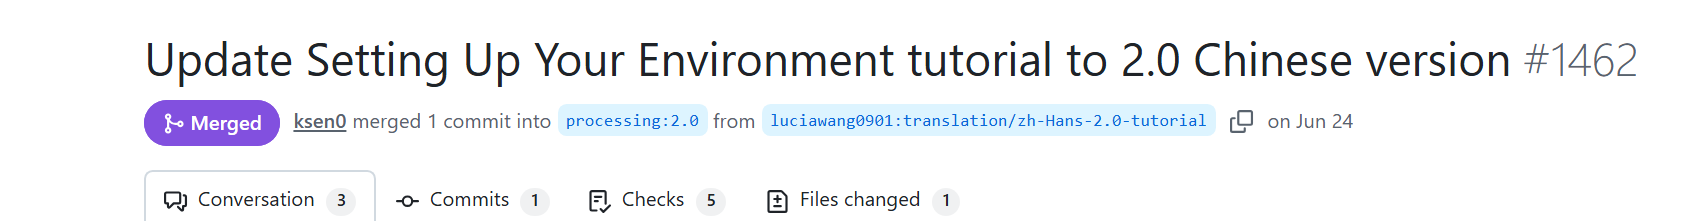
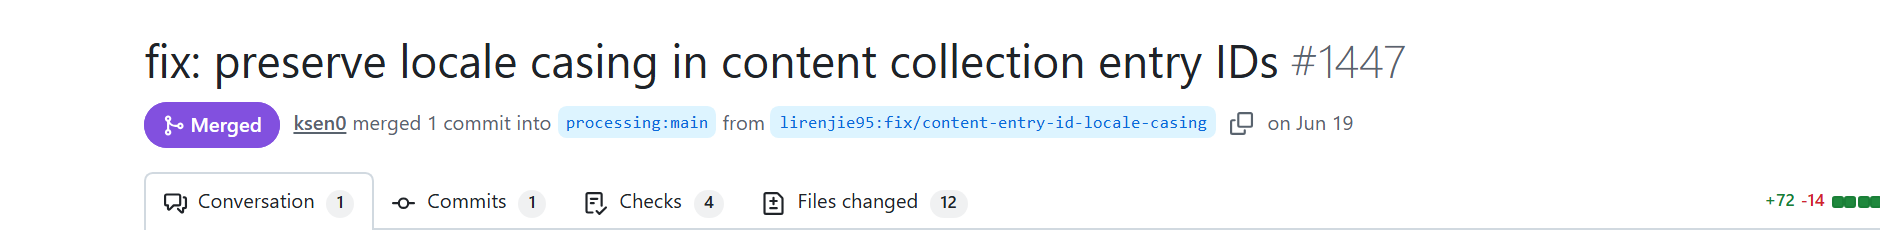
correct the lucia bug slide: the fix PR is mine (#1447)

diff --git a/pcd2026-talk/index.html b/pcd2026-talk/index.html
@@ -453,7 +453,7 @@
   <div class="pic" style="left:60px;top:151px;width:1120px;height:153px;padding:0"><img style="width:100%;height:100%;object-fit:fill;border-radius:3px" src="media/image17.png" alt=""></div>
   <div class="t" style="left:60px;top:312px;font-size:14px;font-weight:700;color:#ED225D">PR #1442 · closed unmerged — she had pushed to a new branch · Jun 11 → 16</div>
   <div class="pic" style="left:60px;top:333px;width:1120px;height:153px;padding:0"><img style="width:100%;height:100%;object-fit:fill;border-radius:3px" src="media/image18.png" alt=""></div>
-  <div class="t" style="left:60px;top:494px;font-size:14px;font-weight:700;color:#ED225D">PR #1462 · merged into 2.0 · Jun 24</div>
+  <div class="t" style="left:60px;top:494px;font-size:14px;font-weight:700;color:#ED225D">PR #1462 · merged into 2.0 · Jun 24 — ksen0: “辛苦了!”</div>
   <div class="pic" style="left:60px;top:515px;width:1120px;height:153px;padding:0"><img style="width:100%;height:100%;object-fit:fill;border-radius:3px" src="media/image19.png" alt=""></div>
   <div class="t" style="left:60px;top:675px;font-size:14px;color:#9AA0A6">Real contributor journey · github.com</div>
   <div class="t" style="left:1177px;top:675px;font-size:14px;color:#9AA0A6">19 / 23</div>
@@ -462,9 +462,9 @@
 <!-- ============ SLIDE 20 ============ -->
 <section class="slide hidden">
   <div class="bar" style="left:60px;top:34px;width:8px;height:32px"></div>
-  <div class="t" style="left:82px;top:32px;font-size:30px;font-weight:700;color:#26222B">luciawang0901 · 3/3 — she found a bug &amp; was celebrated</div>
+  <div class="t" style="left:82px;top:32px;font-size:30px;font-weight:700;color:#26222B">luciawang0901 · 3/3 — her bug report became a merged fix</div>
 
-  <div style="position:absolute;left:71px;top:118px;width:2px;height:524px;background:#F0DCD4"></div>
+  <div style="position:absolute;left:71px;top:118px;width:2px;height:500px;background:#F0DCD4"></div>
 
   <div class="bar" style="left:63px;top:156px;width:18px;height:18px;border-radius:50%"></div>
   <div class="t" style="left:63px;top:156px;width:18px;height:18px;font-size:10px;font-weight:700;color:#FFF9F6;text-align:center;line-height:18px">1</div>
@@ -474,17 +474,17 @@
   <div class="bar" style="left:63px;top:325px;width:18px;height:18px;border-radius:50%"></div>
   <div class="t" style="left:63px;top:325px;width:18px;height:18px;font-size:10px;font-weight:700;color:#FFF9F6;text-align:center;line-height:18px">2</div>
   <div class="pic" style="left:96px;top:246px;width:640px;height:175px;padding:0"><img style="width:100%;height:100%;object-fit:fill;border-radius:3px" src="media/slide20-reply-crop.png" alt="lirenjie95's reply on issue #1446"></div>
-  <div class="t" style="left:770px;top:300px;font-size:15px;color:#5B5660;max-width:450px;line-height:1.5"><b style="color:#ED225D">JUN 16 · MY REPLY</b><br>Same day — we talk it over offline, I confirm it is a bug, and post the cause plus the one-line fix.</div>
+  <div class="t" style="left:770px;top:299px;font-size:15px;color:#5B5660;max-width:450px;line-height:1.5"><b style="color:#ED225D">JUN 16 · MY REPLY</b><br>Same day — we talk it over offline, I confirm it is a bug, and post the cause plus the one-line fix.</div>
 
-  <div class="bar" style="left:63px;top:466px;width:18px;height:18px;border-radius:50%"></div>
-  <div class="t" style="left:63px;top:466px;width:18px;height:18px;font-size:10px;font-weight:700;color:#FFF9F6;text-align:center;line-height:18px">3</div>
-  <div class="pic" style="left:96px;top:433px;width:640px;height:84px;padding:0"><img style="width:100%;height:100%;object-fit:fill;border-radius:3px" src="media/step3-pr.png" alt="PR #1462 merged into 2.0"></div>
-  <div class="t" style="left:770px;top:441px;font-size:15px;color:#5B5660;max-width:450px;line-height:1.5"><b style="color:#ED225D">JUN 21 · PR</b><br>The 2.0 translation lands as <b style="color:#26222B">PR #1462</b> — 1 commit, 1 file, from <span style="font-family:'Menlo','Consolas',monospace;font-size:12.5px;color:#26222B">translation/zh-Hans-2.0-tutorial</span>.</div>
+  <div class="bar" style="left:63px;top:470px;width:18px;height:18px;border-radius:50%"></div>
+  <div class="t" style="left:63px;top:470px;width:18px;height:18px;font-size:10px;font-weight:700;color:#FFF9F6;text-align:center;line-height:18px">3</div>
+  <div class="pic" style="left:96px;top:440px;width:640px;height:79px;padding:0"><img style="width:100%;height:100%;object-fit:fill;border-radius:3px" src="media/step3-pr.png" alt="PR #1447 by lirenjie95, 12 files, merged into main by ksen0"></div>
+  <div class="t" style="left:770px;top:445px;font-size:15px;color:#5B5660;max-width:450px;line-height:1.5"><b style="color:#ED225D">JUN 16 · MY PR</b><br><b style="color:#26222B">PR #1447</b> — I open the fix: one shared helper, 12 collection configs, <span style="font-family:'Menlo','Consolas',monospace;font-size:12.5px;color:#26222B">+72 −14</span>.</div>
 
-  <div class="bar" style="left:63px;top:585px;width:18px;height:18px;border-radius:50%"></div>
-  <div class="t" style="left:63px;top:585px;width:18px;height:18px;font-size:10px;font-weight:700;color:#FFF9F6;text-align:center;line-height:18px">4</div>
-  <div class="pic" style="left:96px;top:535px;width:640px;height:119px;padding:0"><img style="width:100%;height:100%;object-fit:fill;border-radius:3px" src="media/slide20-ksen0.png" alt="ksen0 approved and merged PR #1462"></div>
-  <div class="t" style="left:770px;top:567px;font-size:15px;color:#5B5660;max-width:450px;line-height:1.5"><b style="color:#ED225D">JUN 24 · MERGE</b><br>ksen0 approves, merges into <b style="color:#26222B">2.0</b> — and writes <b style="color:#26222B">辛苦了</b>.</div>
+  <div class="bar" style="left:63px;top:567px;width:18px;height:18px;border-radius:50%"></div>
+  <div class="t" style="left:63px;top:567px;width:18px;height:18px;font-size:10px;font-weight:700;color:#FFF9F6;text-align:center;line-height:18px">4</div>
+  <div class="pic" style="left:96px;top:535px;width:640px;height:82px;padding:0"><img style="width:100%;height:100%;object-fit:fill;border-radius:3px" src="media/step4-test.png" alt="Nwakaego-Ego confirmed the fix works after testing locally"></div>
+  <div class="t" style="left:770px;top:542px;font-size:15px;color:#5B5660;max-width:450px;line-height:1.5"><b style="color:#ED225D">JUN 19 · MERGED</b><br>Nwakaego-Ego tests it and confirms the fix works; ksen0 merges into main, then ports it to <b style="color:#26222B">2.0</b>.</div>
 
   <div class="t" style="left:60px;top:675px;font-size:14px;color:#9AA0A6">Real contributor journey · github.com</div>
   <div class="t" style="left:1177px;top:675px;font-size:14px;color:#9AA0A6">20 / 23</div>
